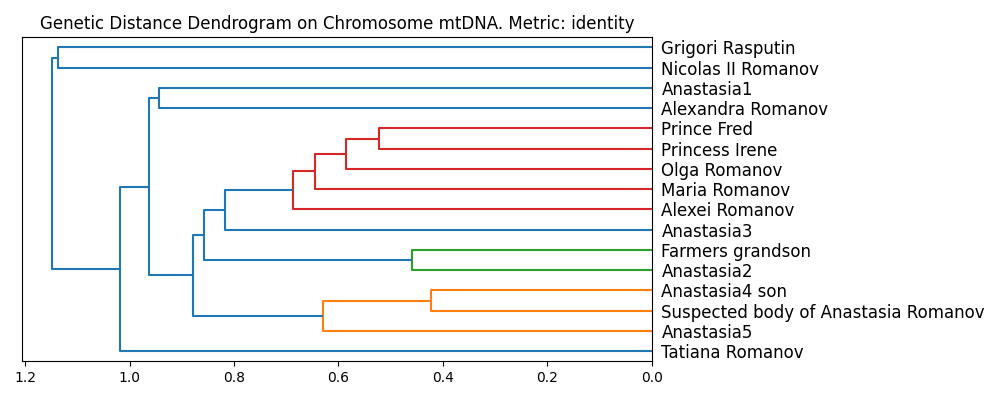
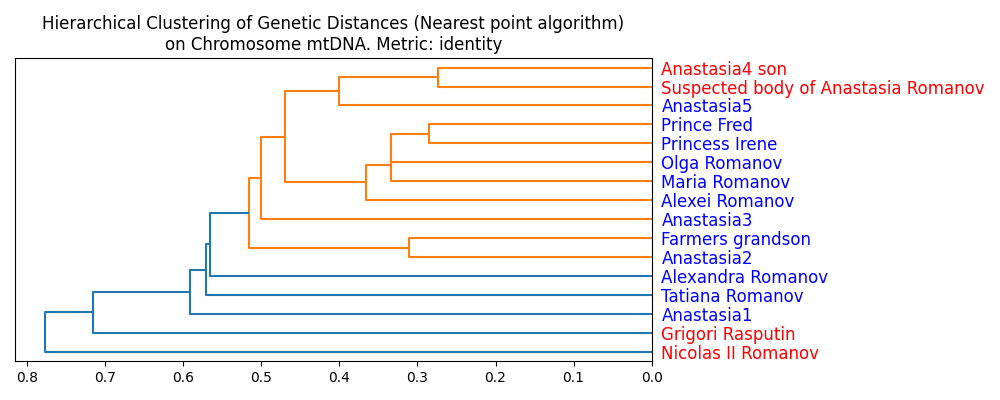
switched to optimization branch to break DistanceMatrixPlotter.py for subplotting

diff --git a/src/partiiiprograms/.ipynb_checkpoints/DistanceMatrixPlotter-checkpoint.py b/src/partiiiprograms/.ipynb_checkpoints/DistanceMatrixPlotter-checkpoint.py
@@ -76,9 +76,12 @@ class Matrix_File_Metadata:
         return str(self.input_files)
 
     def get_metadata(self):
+        # user input interface
         chromosomes = []
         metrics = []
+        # Loop through files
         for i in self.input_files:
+            # Get chromosome name if no chromosomes (force input since you cannot iterate through empty list)
             if len(chromosomes) == 0:
                 chromosomes.append(
                     abort(
@@ -87,9 +90,10 @@ class Matrix_File_Metadata:
                 )
             else:
                 chromosome_already_labeled = False
+                # Loop through chromosomes
                 for c in chromosomes:
                     if c in i:
-                        chromosome_already_labeled = True
+                        chromosome_already_labeled = True # update chromosome_already_labeled
                 if chromosome_already_labeled:
                     pass
                 else:
@@ -119,7 +123,24 @@ class Matrix_File_Metadata:
                         )
                     )
 
-        return (chromosomes, metrics)
+            # Generate dictionaries to return
+            chromo_counts = {}
+            metric_counts = {}
+            for c in chromosomes:
+                chromo_counts[c] = 0
+            for m in metrics:
+                metric_counts[m] = 0
+                
+            for i in self.input_files:
+                for c in chromosomes:
+                    if c in i:
+                        chromo_counts[c] += 1
+                for m in metrics:
+                    if m in i:
+                        metric_counts[m] += 1
+                        
+
+        return (chromo_counts, metric_counts)
 
 
 # Create object class Matrix_File
@@ -131,10 +152,10 @@ class Matrix_File:
         chromosome = []
         metric = []
 
-        for i in chromosomes:
+        for i in chromosomes.keys():
             if i in self.filepath:
                 chromosome.append(i)
-        for i in metrics:
+        for i in metrics.keys():
             if i in self.filepath:
                 metric.append(i)
 
@@ -202,33 +223,35 @@ class Matrix_File:
 
 
 def custom_dendrogram(data, labels, chromosome, metric):
+    
+    
+    
     fig, ax = plt.subplots(figsize=(10, 4))
-    # c_data = squareform(data)
-    Z = linkage(data) # TODO: handle warning thrown by empty matrix
+    c_data = squareform(data)
+    Z = linkage(c_data)
     dendrogram(Z, orientation="left", labels=labels)
 
-    family = np.copy(labels)
+    # Color labels
     romanovs = np.array(
         ["Olga", "Tatiana", "Marie", "Anastasia", "Alexandra", "Nicolas", "Romanov"]
-    ) # TODO: color code axis labels by family
-    for i, ind in enumerate(family):
+    )
+    for i, label in enumerate(labels):
         for j, romanov in enumerate(romanovs):
-            if romanov in ind:
-                family[i] = "Romanov"
+            if romanov in label:
+                ax.get_yticklabels()[i].set_color('blue')
                 break
             elif j < len(romanovs) - 1:
                 pass
             else:
-                family[i] = (
-                    "Other"  # if iteration over romanovs is finished, update family
-                )
-
+                ax.get_yticklabels()[i].set_color('red')
+    
     ax.set_title(f"Hierarchical Clustering of Genetic Distances (Nearest point algorithm)\non Chromosome {chromosome}. Metric: {metric}")
     plt.tight_layout()
     plt.savefig(f"dendrogram_{chromosome}_{metric}.png")
 
 
 def custom_heatmap(data, labels, chromosome, metric):
+    
     # for i in range(len(data)):
     #     for j in range(len(data)):
     #         data[i][j] = -1 * np.float64(math.log(data[i][j] + 1))
@@ -251,11 +274,17 @@ def custom_heatmap(data, labels, chromosome, metric):
 # Run functions
 if __name__ == "__main__":
     input_files_metadata = Matrix_File_Metadata(input_files)
-    chromosomes, metrics = input_files_metadata.get_metadata()
-    
-    for input_file in input_files:
-        fileobject = Matrix_File(input_file)
-        chromosome, metric = fileobject.get_name(chromosomes, metrics)
-        data, labels = fileobject.get_data()
-        custom_dendrogram(data, labels, chromosome, metric)
-        custom_heatmap(data, labels, chromosome, metric)
+    chromo_counts, metric_counts = input_files_metadata.get_metadata()
+
+    for chromosome in chromo_counts.keys():
+        chromo_input_files = []
+        for input_file in input_files:
+            if chromosome in input_file:
+                chromo_input_files.append(input_file)
+        for input_file in chromo_input_files:
+            fileobject = Matrix_File(input_file)
+            chromosome, metric = fileobject.get_name(chromo_counts, metric_counts)
+            data, labels = fileobject.get_data()
+            
+            custom_dendrogram(data, labels, chromosome, metric)  # TODO: plot multiple dendrograms for the same chromosome
+            custom_heatmap(data, labels, chromosome, metric)

diff --git a/src/partiiiprograms/DistanceMatrixPlotter.py b/src/partiiiprograms/DistanceMatrixPlotter.py
@@ -76,9 +76,12 @@ class Matrix_File_Metadata:
         return str(self.input_files)
 
     def get_metadata(self):
+        # user input interface
         chromosomes = []
         metrics = []
+        # Loop through files
         for i in self.input_files:
+            # Get chromosome name if no chromosomes (force input since you cannot iterate through empty list)
             if len(chromosomes) == 0:
                 chromosomes.append(
                     abort(
@@ -87,9 +90,10 @@ class Matrix_File_Metadata:
                 )
             else:
                 chromosome_already_labeled = False
+                # Loop through chromosomes
                 for c in chromosomes:
                     if c in i:
-                        chromosome_already_labeled = True
+                        chromosome_already_labeled = True # update chromosome_already_labeled
                 if chromosome_already_labeled:
                     pass
                 else:
@@ -119,7 +123,24 @@ class Matrix_File_Metadata:
                         )
                     )
 
-        return (chromosomes, metrics)
+            # Generate dictionaries to return
+            chromo_counts = {}
+            metric_counts = {}
+            for c in chromosomes:
+                chromo_counts[c] = 0
+            for m in metrics:
+                metric_counts[m] = 0
+                
+            for i in self.input_files:
+                for c in chromosomes:
+                    if c in i:
+                        chromo_counts[c] += 1
+                for m in metrics:
+                    if m in i:
+                        metric_counts[m] += 1
+                        
+
+        return (chromo_counts, metric_counts)
 
 
 # Create object class Matrix_File
@@ -131,10 +152,10 @@ class Matrix_File:
         chromosome = []
         metric = []
 
-        for i in chromosomes:
+        for i in chromosomes.keys():
             if i in self.filepath:
                 chromosome.append(i)
-        for i in metrics:
+        for i in metrics.keys():
             if i in self.filepath:
                 metric.append(i)
 
@@ -202,33 +223,35 @@ class Matrix_File:
 
 
 def custom_dendrogram(data, labels, chromosome, metric):
+    
+    
+    
     fig, ax = plt.subplots(figsize=(10, 4))
-    # c_data = squareform(data)
-    Z = linkage(data) # TODO: handle warning thrown by empty matrix
+    c_data = squareform(data)
+    Z = linkage(c_data)
     dendrogram(Z, orientation="left", labels=labels)
 
-    family = np.copy(labels)
+    # Color labels
     romanovs = np.array(
         ["Olga", "Tatiana", "Marie", "Anastasia", "Alexandra", "Nicolas", "Romanov"]
-    ) # TODO: color code axis labels by family
-    for i, ind in enumerate(family):
+    )
+    for i, label in enumerate(labels):
         for j, romanov in enumerate(romanovs):
-            if romanov in ind:
-                family[i] = "Romanov"
+            if romanov in label:
+                ax.get_yticklabels()[i].set_color('blue')
                 break
             elif j < len(romanovs) - 1:
                 pass
             else:
-                family[i] = (
-                    "Other"  # if iteration over romanovs is finished, update family
-                )
-
+                ax.get_yticklabels()[i].set_color('red')
+    
     ax.set_title(f"Hierarchical Clustering of Genetic Distances (Nearest point algorithm)\non Chromosome {chromosome}. Metric: {metric}")
     plt.tight_layout()
     plt.savefig(f"dendrogram_{chromosome}_{metric}.png")
 
 
 def custom_heatmap(data, labels, chromosome, metric):
+    
     # for i in range(len(data)):
     #     for j in range(len(data)):
     #         data[i][j] = -1 * np.float64(math.log(data[i][j] + 1))
@@ -251,11 +274,17 @@ def custom_heatmap(data, labels, chromosome, metric):
 # Run functions
 if __name__ == "__main__":
     input_files_metadata = Matrix_File_Metadata(input_files)
-    chromosomes, metrics = input_files_metadata.get_metadata()
-    
-    for input_file in input_files:
-        fileobject = Matrix_File(input_file)
-        chromosome, metric = fileobject.get_name(chromosomes, metrics)
-        data, labels = fileobject.get_data()
-        custom_dendrogram(data, labels, chromosome, metric)
-        custom_heatmap(data, labels, chromosome, metric)
+    chromo_counts, metric_counts = input_files_metadata.get_metadata()
+
+    for chromosome in chromo_counts.keys():
+        chromo_input_files = []
+        for input_file in input_files:
+            if chromosome in input_file:
+                chromo_input_files.append(input_file)
+        for input_file in chromo_input_files:
+            fileobject = Matrix_File(input_file)
+            chromosome, metric = fileobject.get_name(chromo_counts, metric_counts)
+            data, labels = fileobject.get_data()
+            
+            custom_dendrogram(data, labels, chromosome, metric)  # TODO: plot multiple dendrograms for the same chromosome
+            custom_heatmap(data, labels, chromosome, metric)
